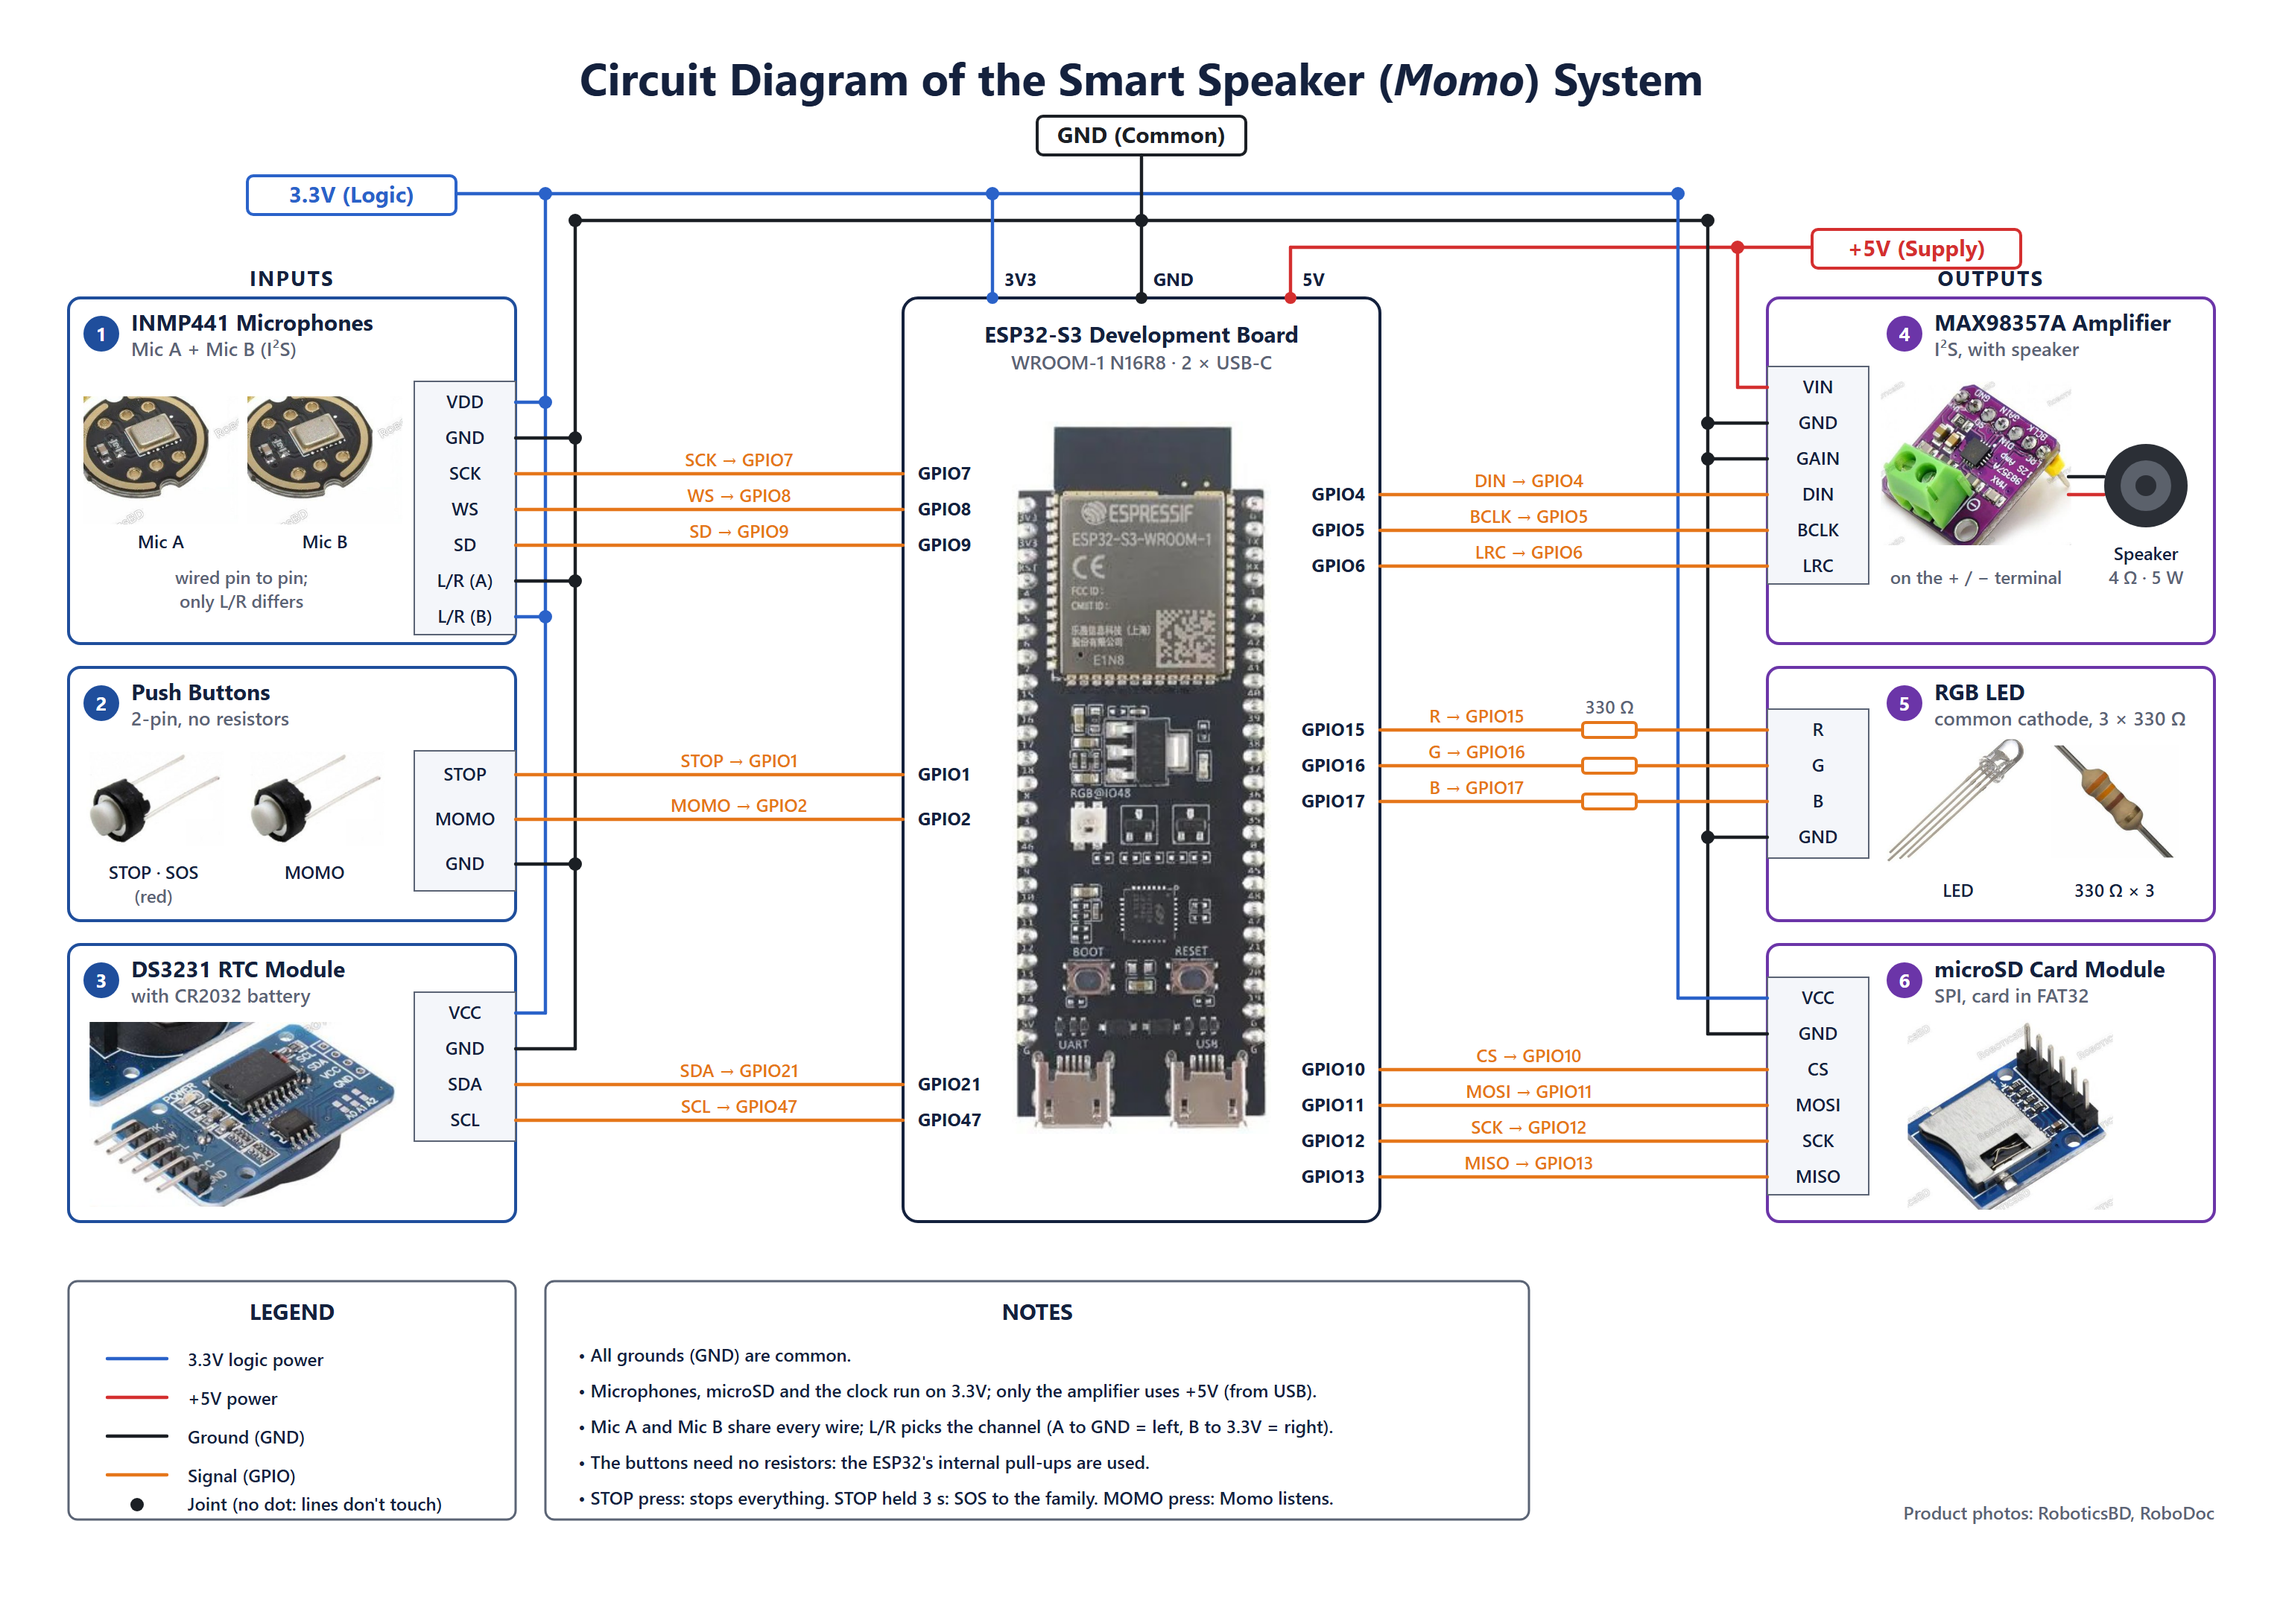
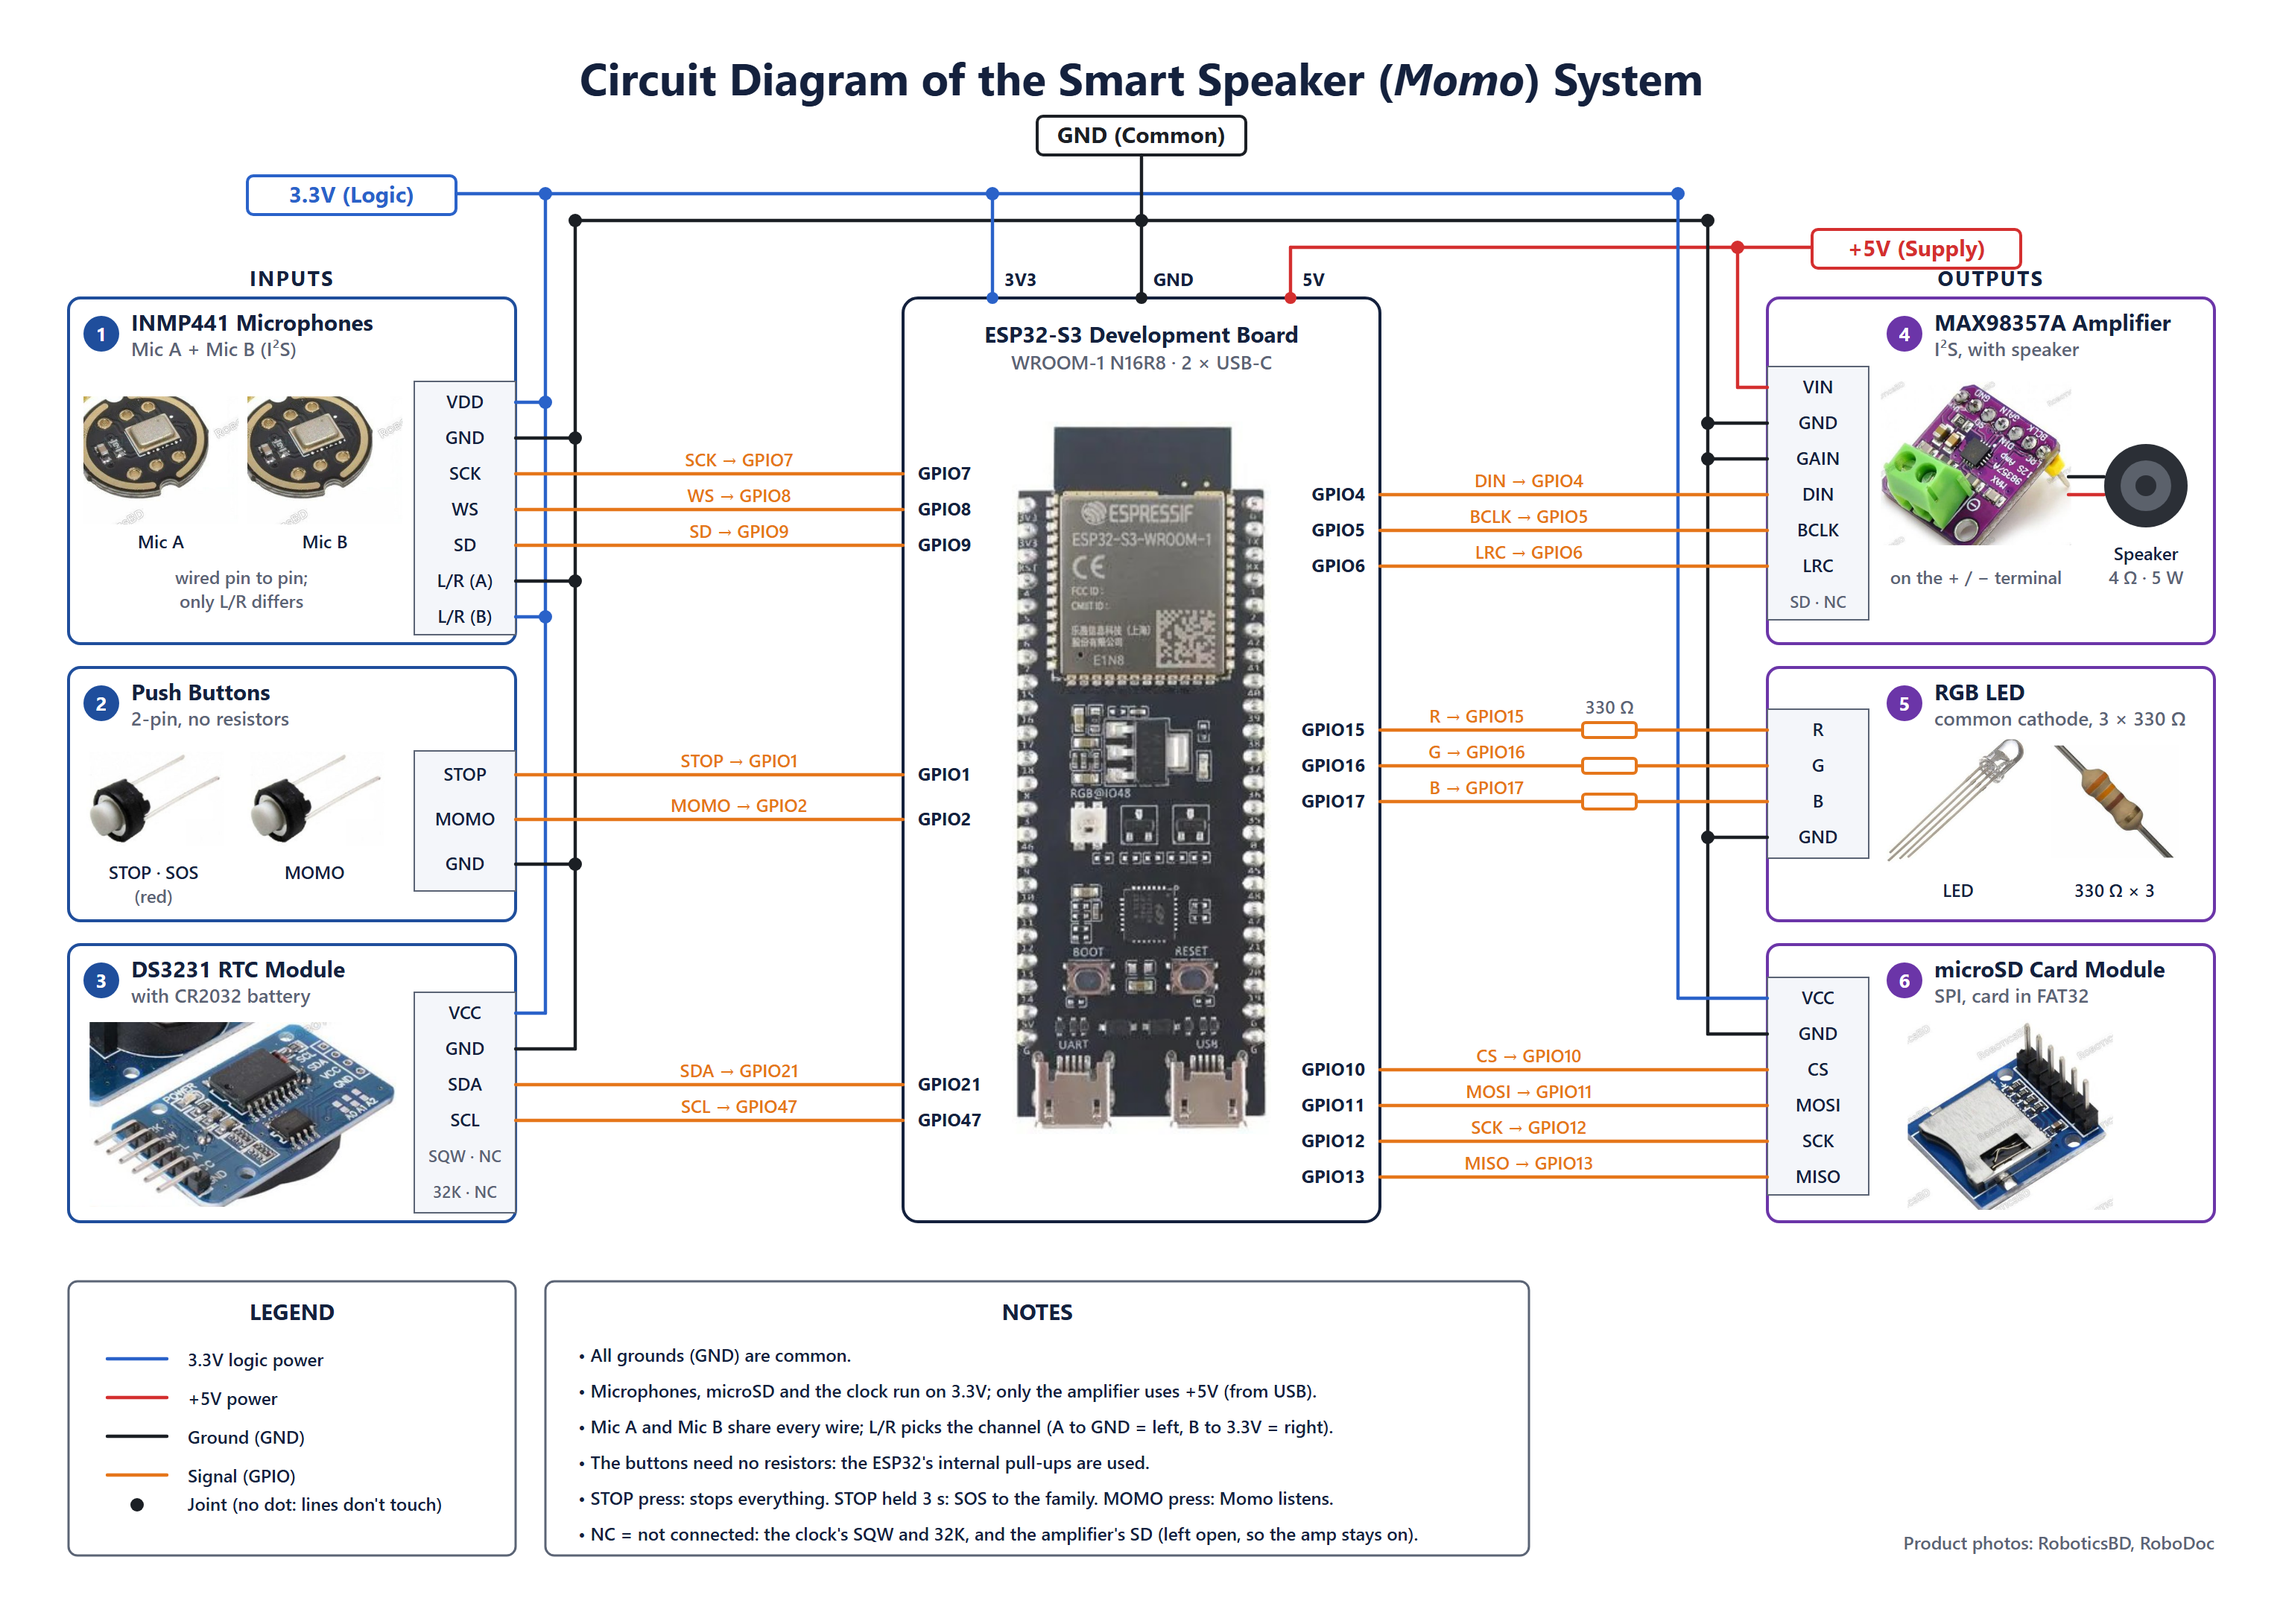
docs: circuit diagram marks the unused pins (clock SQW, 32K; amp SD) as not connected

diff --git a/docs/circuit-diagram.html b/docs/circuit-diagram.html
@@ -29,6 +29,7 @@ svg.cd { display: block; width: 100%; min-width: 1000px; height: auto; }
 .hs { fill: var(--muted); font: 600 13px var(--font); }
 .col { fill: var(--ink); font: 700 14px var(--font); letter-spacing: 0.08em; }
 .pl { fill: var(--ink); font: 600 12px var(--font); }
+.nc { fill: var(--muted); font: 600 11px var(--font); }
 .ep { fill: var(--ink); font: 700 12px var(--font); }
 .cap { fill: var(--muted); font: 600 12px var(--font); }
 .sl { fill: var(--sig); font: 600 12px var(--font); }
@@ -53,7 +54,7 @@ svg.cd { display: block; width: 100%; min-width: 1000px; height: auto; }
 <body>
 
 <div class="scroll">
-<svg class="cd" viewBox="0 0 1500 1040" role="img" aria-label="Circuit diagram of the smart speaker: an ESP32-S3 board in the centre; inputs on the left (two INMP441 microphones on GPIO 7, 8, 9; STOP/SOS and MOMO buttons on GPIO 1 and 2; DS3231 clock on GPIO 21 and 47); outputs on the right (MAX98357A amplifier and speaker on GPIO 4, 5, 6; RGB LED on GPIO 15, 16, 17 through 330 ohm resistors; microSD module on GPIO 10 to 13); shared 3.3 V, ground and 5 V lines along the top.">
+<svg class="cd" viewBox="0 0 1500 1050" role="img" aria-label="Circuit diagram of the smart speaker: an ESP32-S3 board in the centre; inputs on the left (two INMP441 microphones on GPIO 7, 8, 9; STOP/SOS and MOMO buttons on GPIO 1 and 2; DS3231 clock on GPIO 21 and 47); outputs on the right (MAX98357A amplifier and speaker on GPIO 4, 5, 6; RGB LED on GPIO 15, 16, 17 through 330 ohm resistors; microSD module on GPIO 10 to 13); shared 3.3 V, ground and 5 V lines along the top.">
 
   <text x="750" y="44" text-anchor="middle" class="t">Circuit Diagram of the Smart Speaker (<tspan class="ti">Momo</tspan>) System</text>
 
@@ -171,11 +172,13 @@ svg.cd { display: block; width: 100%; min-width: 1000px; height: auto; }
   <text x="72" y="636" class="h">DS3231 RTC Module</text>
   <text x="72" y="653" class="hs">with CR2032 battery</text>
[1 lines of base64/hex data omitted]
-  <rect x="262" y="646" width="68" height="100" class="pinbox"/>
+  <rect x="262" y="646" width="68" height="148" class="pinbox"/>
   <text x="296" y="664" text-anchor="middle" class="pl">VCC</text>
   <text x="296" y="688" text-anchor="middle" class="pl">GND</text>
   <text x="296" y="712" text-anchor="middle" class="pl">SDA</text>
   <text x="296" y="736" text-anchor="middle" class="pl">SCL</text>
+  <text x="296" y="760" text-anchor="middle" class="nc">SQW · NC</text>
+  <text x="296" y="784" text-anchor="middle" class="nc">32K · NC</text>
   <line x1="330" y1="660" x2="350" y2="660" class="w p3"/>
   <line x1="330" y1="684" x2="370" y2="684" class="w gn"/>
   <line x1="330" y1="708" x2="590" y2="708" class="w sg"/>
@@ -198,13 +201,14 @@ svg.cd { display: block; width: 100%; min-width: 1000px; height: auto; }
   <text x="1424" y="356" text-anchor="middle" class="pl">Speaker</text>
   <text x="1424" y="372" text-anchor="middle" class="cap">4 Ω · 5 W</text>
   <text x="1310" y="372" text-anchor="middle" class="cap">on the + / − terminal</text>
-  <rect x="1170" y="226" width="68" height="146" class="pinbox"/>
+  <rect x="1170" y="226" width="68" height="170" class="pinbox"/>
   <text x="1204" y="244" text-anchor="middle" class="pl">VIN</text>
   <text x="1204" y="268" text-anchor="middle" class="pl">GND</text>
   <text x="1204" y="292" text-anchor="middle" class="pl">GAIN</text>
   <text x="1204" y="316" text-anchor="middle" class="pl">DIN</text>
   <text x="1204" y="340" text-anchor="middle" class="pl">BCLK</text>
   <text x="1204" y="364" text-anchor="middle" class="pl">LRC</text>
+  <text x="1204" y="388" text-anchor="middle" class="nc">SD · NC</text>
   <line x1="1170" y1="240" x2="1150" y2="240" class="w p5"/>
   <line x1="1170" y1="264" x2="1130" y2="264" class="w gn"/><circle cx="1130" cy="264" r="4.5" class="gnf"/>
   <line x1="1170" y1="288" x2="1130" y2="288" class="w gn"/><circle cx="1130" cy="288" r="4.5" class="gnf"/>
@@ -266,7 +270,7 @@ svg.cd { display: block; width: 100%; min-width: 1000px; height: auto; }
   <text x="1010" y="765" text-anchor="middle" class="sl">MISO → GPIO13</text>
 
   <!-- ===== Legend and notes ===== -->
-  <rect x="30" y="840" width="300" height="160" rx="6" class="box"/>
+  <rect x="30" y="840" width="300" height="184" rx="6" class="box"/>
   <text x="180" y="866" text-anchor="middle" class="h">LEGEND</text>
   <line x1="56" y1="892" x2="96" y2="892" class="w p3"/><text x="110" y="897" class="pl">3.3V logic power</text>
   <line x1="56" y1="918" x2="96" y2="918" class="w p5"/><text x="110" y="923" class="pl">+5V power</text>
@@ -274,15 +278,16 @@ svg.cd { display: block; width: 100%; min-width: 1000px; height: auto; }
   <line x1="56" y1="970" x2="96" y2="970" class="w sg"/><text x="110" y="975" class="pl">Signal (GPIO)</text>
   <circle cx="76" cy="990" r="4.5" class="gnf"/><text x="110" y="994" class="pl">Joint (no dot: lines don't touch)</text>
 
-  <rect x="350" y="840" width="660" height="160" rx="6" class="box"/>
+  <rect x="350" y="840" width="660" height="184" rx="6" class="box"/>
   <text x="680" y="866" text-anchor="middle" class="h">NOTES</text>
   <text x="372" y="894" class="pl">• All grounds (GND) are common.</text>
   <text x="372" y="918" class="pl">• Microphones, microSD and the clock run on 3.3V; only the amplifier uses +5V (from USB).</text>
   <text x="372" y="942" class="pl">• Mic A and Mic B share every wire; L/R picks the channel (A to GND = left, B to 3.3V = right).</text>
   <text x="372" y="966" class="pl">• The buttons need no resistors: the ESP32's internal pull-ups are used.</text>
   <text x="372" y="990" class="pl">• STOP press: stops everything. STOP held 3 s: SOS to the family. MOMO press: Momo listens.</text>
+  <text x="372" y="1014" class="pl">• NC = not connected: the clock's SQW and 32K, and the amplifier's SD (left open, so the amp stays on).</text>
 
-  <text x="1470" y="1000" text-anchor="end" class="cap">Product photos: RoboticsBD, RoboDoc</text>
+  <text x="1470" y="1020" text-anchor="end" class="cap">Product photos: RoboticsBD, RoboDoc</text>
 </svg>
 </div>
 </body>
